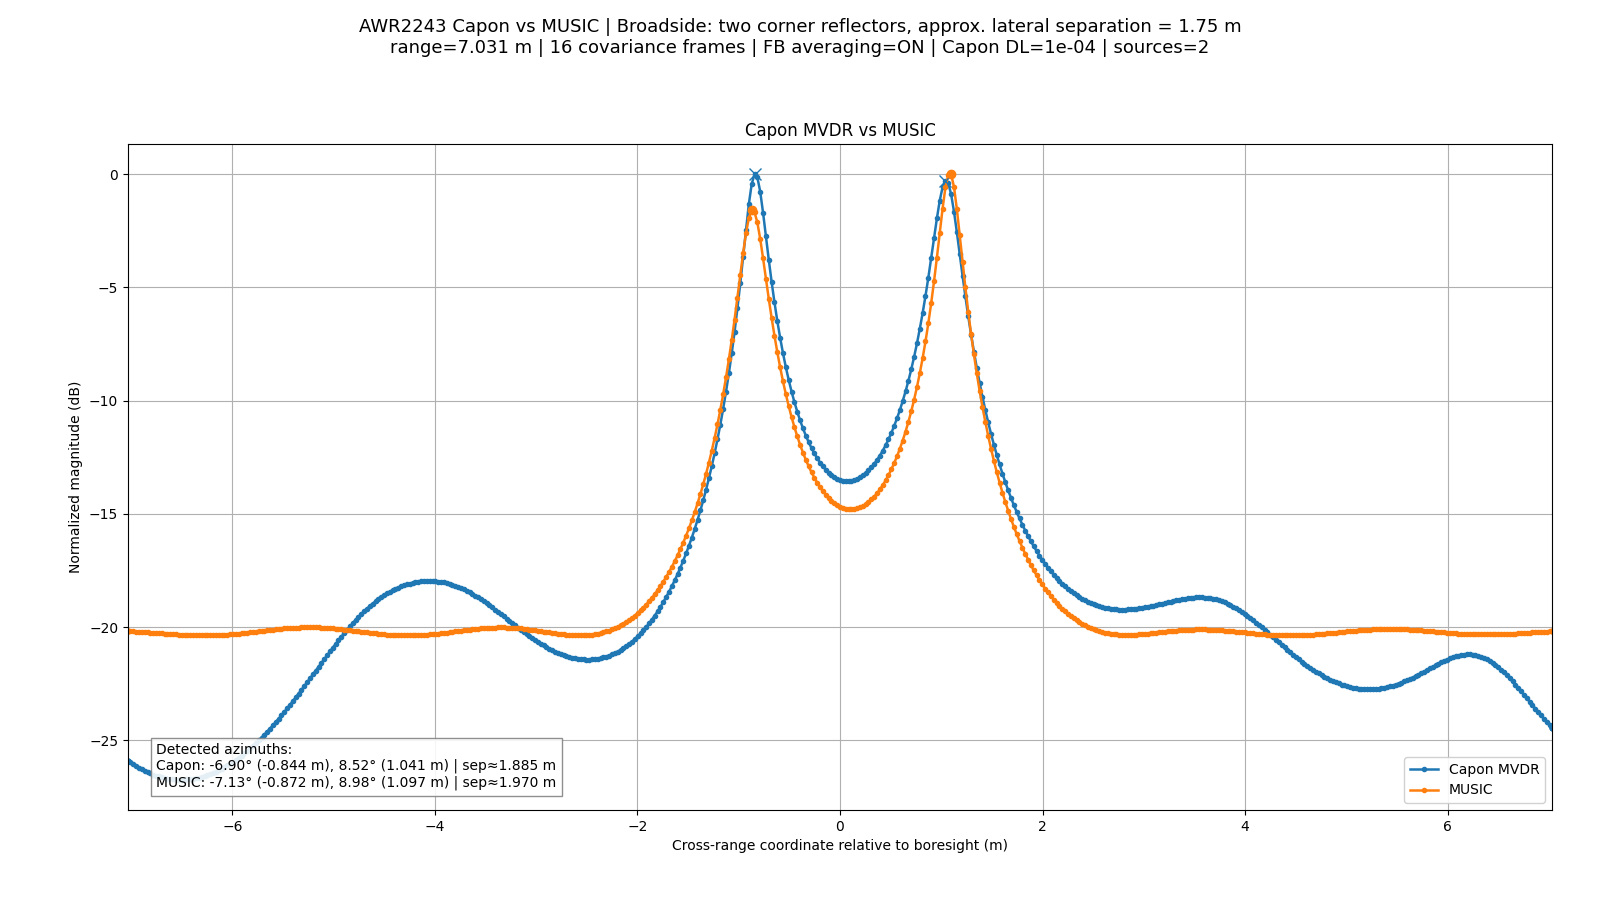
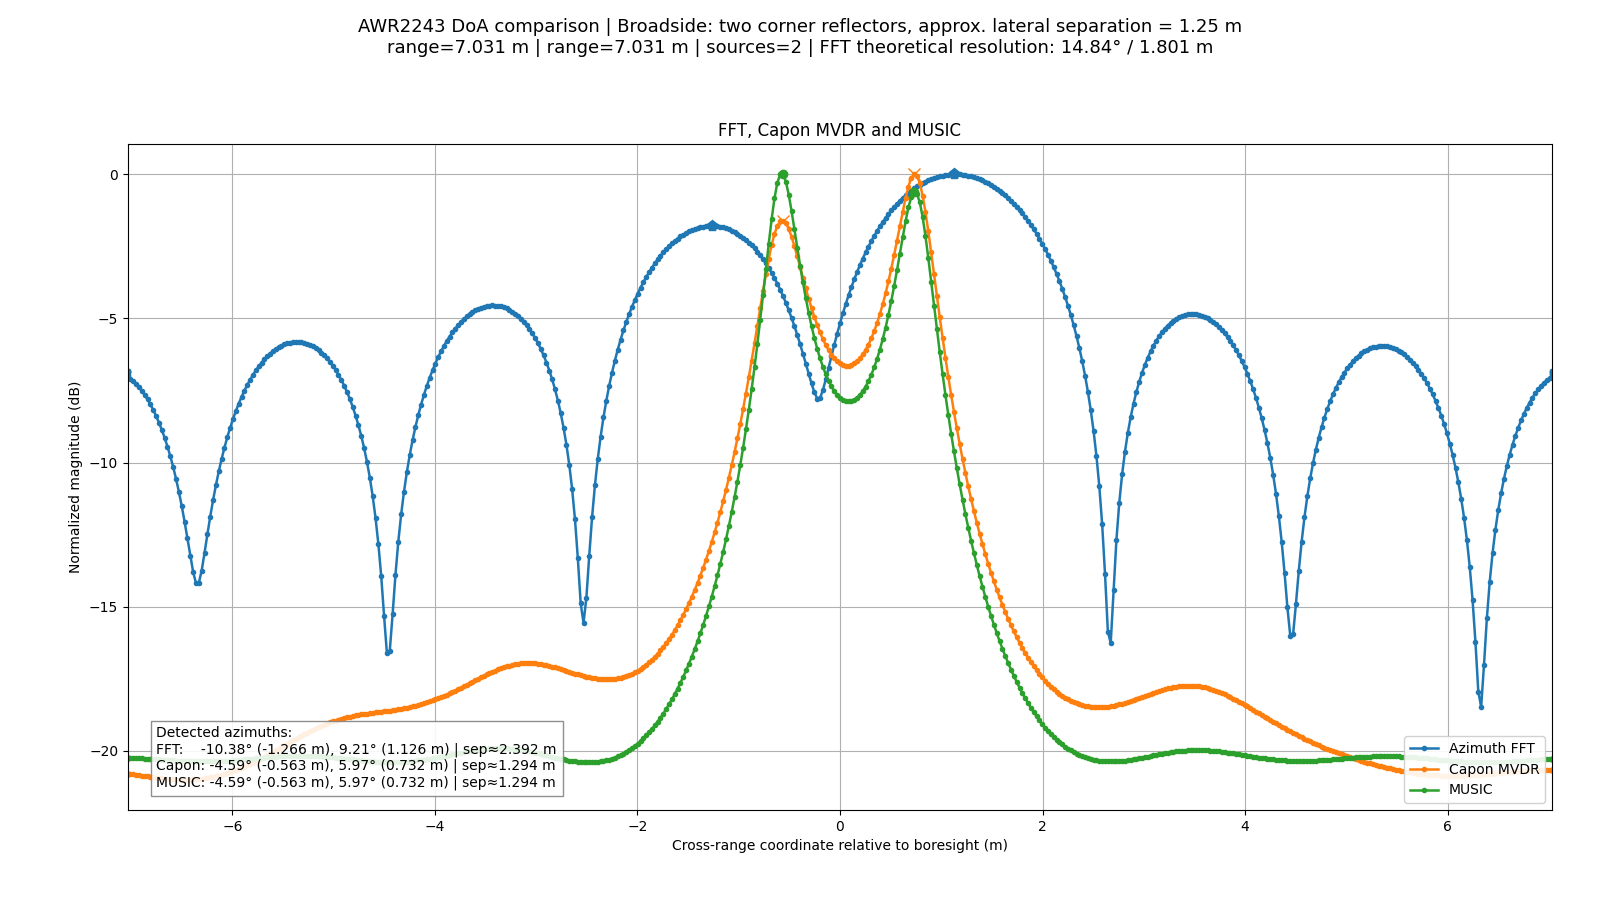
esprit AWR2243

diff --git a/docs/08_esprit.html b/docs/08_esprit.html
@@ -13549,7 +13549,7 @@ $$</p>
 </div>
 <div class="cell border-box-sizing code_cell rendered" id="cell-id=fc0fd150">
 <div class="input">
-<div class="prompt input_prompt">In [23]:</div>
+<div class="prompt input_prompt">In [1]:</div>
 <div class="inner_cell">
 <div class="input_area">
 <div class="highlight hl-ipython3"><pre><span></span><span class="kn">import</span><span class="w"> </span><span class="nn">numpy</span><span class="w"> </span><span class="k">as</span><span class="w"> </span><span class="nn">np</span>
@@ -13722,7 +13722,7 @@ $$</p>
 </div>
 <div class="cell border-box-sizing code_cell rendered" id="cell-id=ddeb8078">
 <div class="input">
-<div class="prompt input_prompt">In [24]:</div>
+<div class="prompt input_prompt">In [2]:</div>
 <div class="inner_cell">
 <div class="input_area">
 <div class="highlight hl-ipython3"><pre><span></span><span class="kn">import</span><span class="w"> </span><span class="nn">numpy</span><span class="w"> </span><span class="k">as</span><span class="w"> </span><span class="nn">np</span>
@@ -13861,7 +13861,16 @@ $$</p>
 </div><div class="inner_cell">
 <div class="text_cell_render border-box-sizing rendered_html">
 <p><a id="validation-results-with-awr2243"></a></p>
-<h3 id="Validation-Results-with-AWR2243">Validation Results with AWR2243<a class="anchor-link" href="#Validation-Results-with-AWR2243">¶</a></h3>
+<h3 id="Validation-Results-with-AWR2243">Validation Results with AWR2243<a class="anchor-link" href="#Validation-Results-with-AWR2243">¶</a></h3><p>The ESPRIT LS and TLS implementations are validated using real measurements acquired with the <strong>AWR2243</strong> radar in two-target broadside and off-boresight scenarios. For comparison, the ESPRIT detections are shown together with the Capon/MVDR, MUSIC, and conventional FFT beamformer responses using the same covariance snapshots.</p>
+<p align="center">
+<img alt="FFT, ESPRIT, Capon and MUSIC comparison for the broadside scenario" src="images/esprit_broadside.png" width="95%"/>
+</p>
+<p align="center">
+<img alt="FFT, ESPRIT, Capon and MUSIC comparison for the off-boresight scenario" src="images/esprit_offboresight.png" width="95%"/>
+</p>
+<p>According to the Rayleigh resolution criterion, the theoretical angular resolution of the FFT beamformer is approximately $14.84^\circ$ for the broadside scenario and $20.76^\circ$ for the off-boresight scenario, corresponding to lateral separations of approximately $1.8$ m and $2.5$ m, respectively.</p>
+<p>In the measurements, the corner reflectors are separated by only $1.0$ m in the broadside case and $2.0$ m in the off-boresight case. Both separations are therefore below the corresponding theoretical FFT resolution limits.</p>
+<p>Despite this, ESPRIT (both LS and TLS), MUSIC, and Capon/MVDR provide consistent DoA estimates and clearly resolve the two targets, while the conventional FFT beamformer cannot explicitly separate them.</p>
 </div>
 </div>
 </div>

diff --git a/docs/07_music.html b/docs/07_music.html
@@ -14035,16 +14035,16 @@ $$</p>
 </div><div class="inner_cell">
 <div class="text_cell_render border-box-sizing rendered_html">
 <p><a id="validation-results-with-awr2243"></a></p>
-<h3 id="Validation-Results-with-AWR2243">Validation Results with AWR2243<a class="anchor-link" href="#Validation-Results-with-AWR2243">¶</a></h3><p>The MUSIC implementation is validated using real measurements acquired with the <strong>AWR2243</strong> radar in two-target broadside and off-boresight scenarios. For comparison, the MUSIC pseudospectrum is shown together with the Capon/MVDR spectrum using the same covariance snapshots and Forward–Backward averaging.</p>
+<h3 id="Validation-Results-with-AWR2243">Validation Results with AWR2243<a class="anchor-link" href="#Validation-Results-with-AWR2243">¶</a></h3><p>The MUSIC implementation is validated using real measurements acquired with the <strong>AWR2243</strong> radar in two-target broadside and off-boresight scenarios. For comparison, MUSIC pseudospectrum is shown together with the Capon/MVDR and conventional FFT beamformer responses using the same covariance snapshots.</p>
 <p align="center">
 <img alt="Capon and MUSIC comparison for the broadside scenario" src="images/mus_vs_cap_broadside.png" width="95%"/>
 </p>
 <p align="center">
 <img alt="Capon and MUSIC comparison for the off-boresight scenario" src="images/mus_vs_cap_off_boresight.png" width="95%"/>
 </p>
-<p>Both Capon/MVDR and MUSIC produce sharp, narrow peaks at nearly the same target directions in the broadside and off-boresight measurements.</p>
-<p>The main difference is visible away from the target peaks. The MUSIC pseudospectrum has a more uniform background level, whereas the Capon/MVDR spectrum shows stronger variation and additional structure across the scan region.</p>
-<p>Despite their different formulations, both methods provide consistent DoA estimates and clearly resolve the two corner reflectors in both measurement scenarios.</p>
+<p>According to the Rayleigh resolution criterion, the theoretical angular resolution of the FFT beamformer is approximately $14.84^\circ$ for the broadside scenario and $20.76^\circ$ for the off-boresight scenario, corresponding to lateral separations of approximately $1.8$ m and $2.5$ m, respectively.</p>
+<p>In the measurements, the corner reflectors are separated by only $1.25$ m in the broadside case and $2.0$ m in the off-boresight case. Both separations are therefore below the corresponding theoretical FFT resolution limits.</p>
+<p>Despite this, MUSIC and Capon/MVDR provide consistent DoA estimates and clearly resolve the two targets, while the conventional FFT beamformer cannot explicitly separate them.</p>
 </div>
 </div>
 </div>

diff --git a/docs/01_signal_model.html b/docs/01_signal_model.html
@@ -13098,7 +13098,7 @@ div#notebook {
 </div>
 </div>
 </div>
-<div class="cell border-box-sizing text_cell rendered" id="cell-id=9f7ce015"><div class="prompt input_prompt">
+<div class="cell border-box-sizing text_cell rendered" id="cell-id=bd9488c1"><div class="prompt input_prompt">
 </div><div class="inner_cell">
 <div class="text_cell_render border-box-sizing rendered_html">
 <p>The signal model is a mathematical description of the signals received across a phased array. It accounts for the source directions, array geometry, relative phase shifts between antenna elements, source amplitudes, interference, and noise. For far-field sources, the incident wavefront is commonly approximated as a planar wave.</p>
@@ -13106,7 +13106,7 @@ div#notebook {
 </div>
 </div>
 </div>
-<div class="cell border-box-sizing text_cell rendered" id="cell-id=5735de78"><div class="prompt input_prompt">
+<div class="cell border-box-sizing text_cell rendered" id="cell-id=7eea6169"><div class="prompt input_prompt">
 </div><div class="inner_cell">
 <div class="text_cell_render border-box-sizing rendered_html">
 <p><a id="snapshot-model"></a></p>
@@ -13205,7 +13205,7 @@ x = A @ s + n =  [1.54+0.42j 1.47-0.58j 0.44-0.42j 0.49+0.56j 1.5 +0.46j 1.38-0.
 </div>
 </div>
 </div>
-<div class="cell border-box-sizing text_cell rendered" id="cell-id=7ab9f9eb"><div class="prompt input_prompt">
+<div class="cell border-box-sizing text_cell rendered" id="cell-id=b4aef5c6"><div class="prompt input_prompt">
 </div><div class="inner_cell">
 <div class="text_cell_render border-box-sizing rendered_html">
 <p><a id="steering-vector"></a></p>

diff --git a/README.md b/README.md
@@ -79,7 +79,9 @@ The below chapters are rendered via the nbviewer at nbviewer.jupyter.org/, and i
 1. Van Trees, H. L., *Optimum Array Processing: Part IV of Detection, Estimation, and Modulation Theory*. New York: John Wiley & Sons, 2002.
 2. Wirth, W.-D., *Radar Techniques Using Array Antennas*, 2nd ed. London: Institution of Engineering and Technology, 2013.  
 3. Bergin, J. S., and Guerci, J. R., *MIMO Radar: Theory and Application*. Boston, MA: Artech House, 2018.
-
+4. Wen, D., Yi, H., Zhang, W., and Xu, H., “2D-Unitary ESPRIT Based Multi-Target Joint Range and Velocity Estimation Algorithm for FMCW Radar,” *Applied Sciences*, vol. 13, no. 18, art. 10448, 2023. doi: 10.3390/app131810448.
+5. Kim, B.-S., Jin, Y., Lee, J., and Kim, S., “FMCW Radar Estimation Algorithm with High Resolution and Low Complexity Based on Reduced Search Area,” *Sensors*, vol. 22, no. 3, art. 1202, 2022. doi: 10.3390/s22031202.
+6. Oh, D., and Lee, J.-H., “Low-Complexity Range-Azimuth FMCW Radar Sensor Using Joint Angle and Delay Estimation Without SVD and EVD,” *IEEE Sensors Journal*, vol. 15, no. 9, pp. 4799–4811, Sep. 2015. doi: 10.1109/JSEN.2015.2428814.
 
 
 ### helpers
